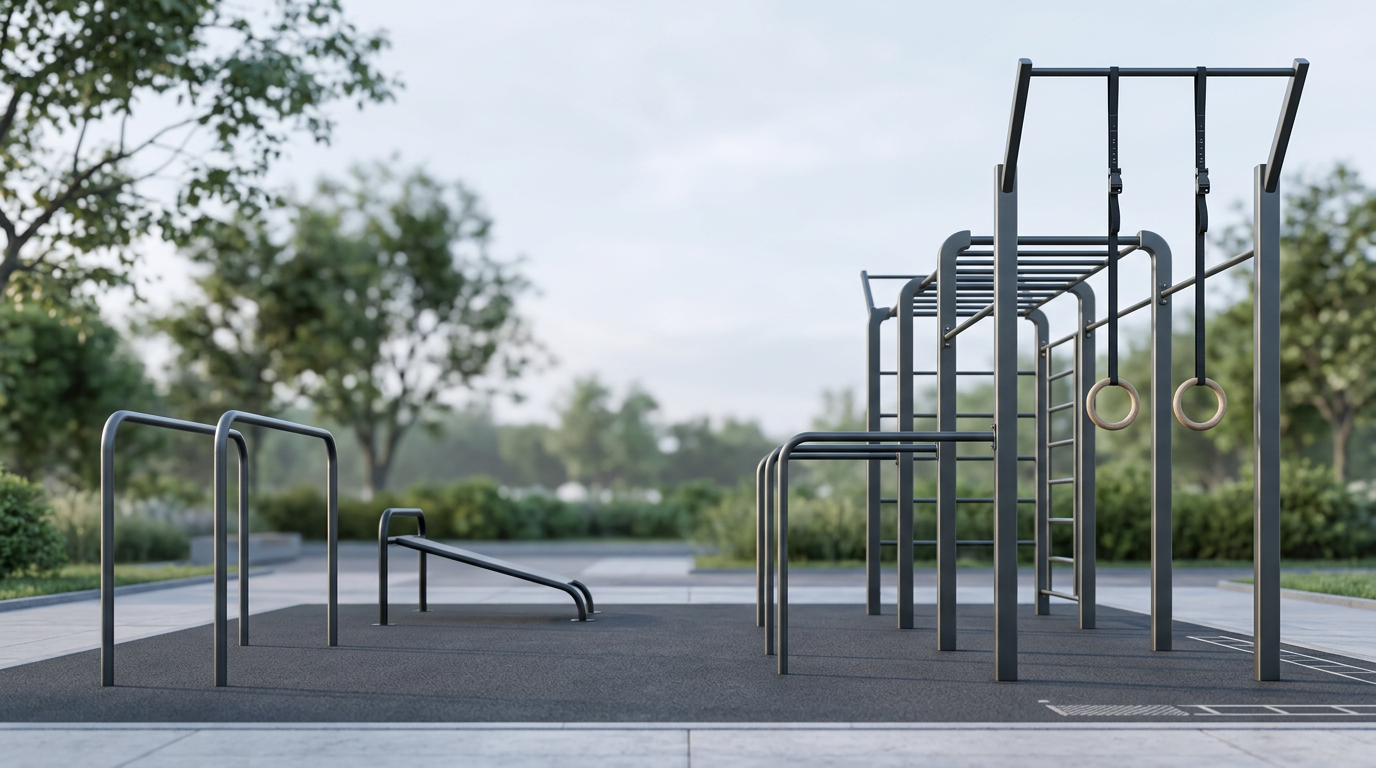
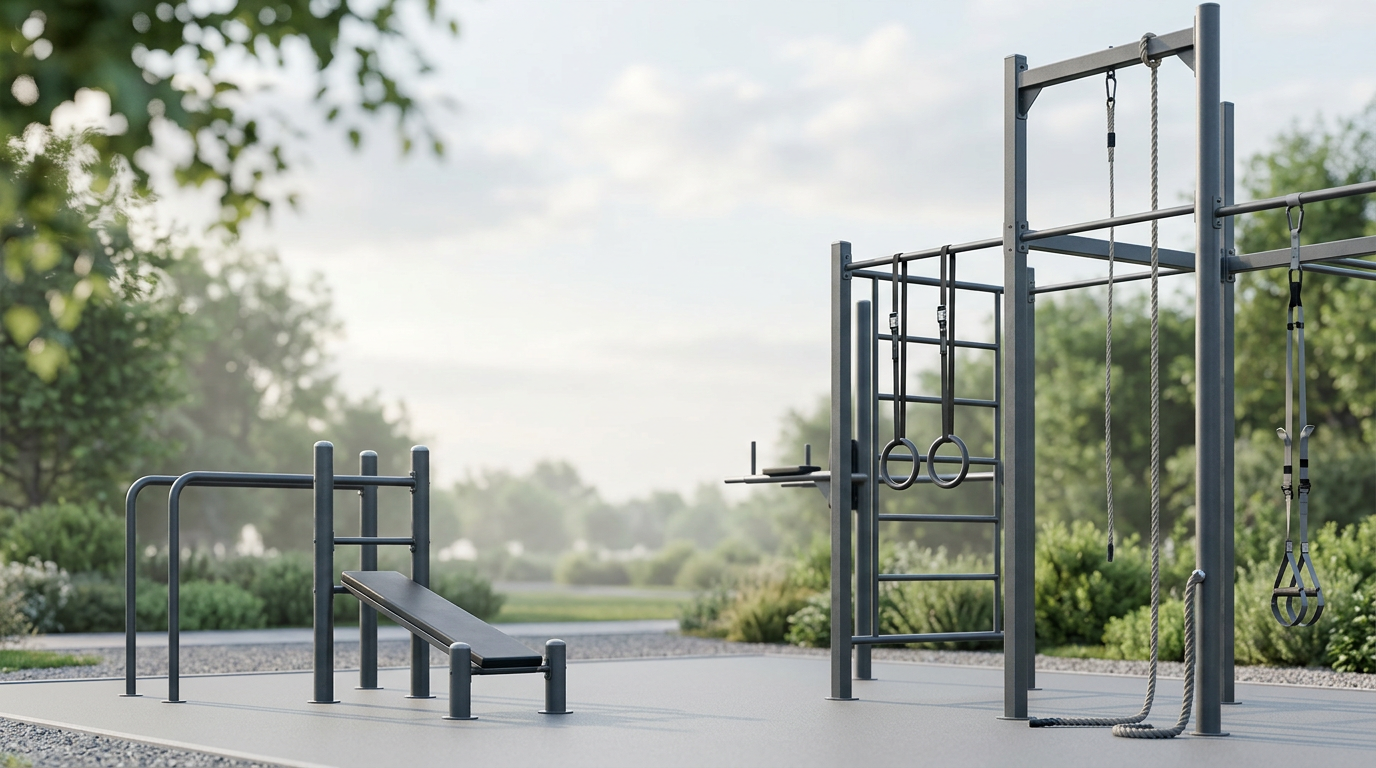
feat(crm-web): designer hero art from equipment brief + tuned placement
Regenerate login-street-workout-bg: calm center for UI, corners for rigs (rings on straps, battle rope, climbing rope, TRX-style, dip cluster, Swedish wall).

SCSS: scale 0.9, optical anchor 50%/46%, center radial veil for glass card legibility, softer edge washes.
Made-with: Cursor

diff --git a/crm-web/src/app/features/auth/pages/login-page/login-page.component.scss b/crm-web/src/app/features/auth/pages/login-page/login-page.component.scss
@@ -32,16 +32,19 @@
   pointer-events: none;
 }
 
-/* Фон чуть «дальше от камеры»: scale < 1 + центр чуть выше — больше воздуха вокруг площадки. */
+/*
+ * Hero: спокойный центр под стеклянную карточку, оборудование по краям (низ слева / справа).
+ * Масштаб и вуаль согласованы с макетом: не «в лоб» в симулятор, читаемость формы входа.
+ */
 .loginBackdrop::before {
   content: '';
   position: absolute;
   inset: 0;
-  background: url('/branding/login-street-workout-bg.png') no-repeat 50% 42% / cover;
-  opacity: 0.37;
-  filter: saturate(1.08) contrast(1.04) brightness(1.03);
-  transform: scale(0.82);
-  transform-origin: 50% 44%;
+  background: url('/branding/login-street-workout-bg.png') no-repeat 50% 46% / cover;
+  opacity: 0.39;
+  filter: saturate(1.06) contrast(1.03) brightness(1.02);
+  transform: scale(0.9);
+  transform-origin: 50% 46%;
 }
 
 .loginBackdrop::after {
@@ -49,10 +52,10 @@
   position: absolute;
   inset: 0;
   background:
-    radial-gradient(ellipse 95% 85% at 42% 38%, color-mix(in srgb, #fff 8%, transparent) 0%, transparent 55%),
-    radial-gradient(ellipse 100% 90% at 50% 40%, transparent 0%, color-mix(in srgb, var(--bg-base) 42%, transparent) 68%),
-    radial-gradient(ellipse 120% 80% at 0% 0%, color-mix(in srgb, var(--accent) 14%, transparent) 0%, transparent 55%),
-    radial-gradient(ellipse 90% 70% at 100% 25%, color-mix(in srgb, var(--success) 22%, transparent) 0%, transparent 48%);
+    radial-gradient(ellipse 52% 68% at 50% 40%, color-mix(in srgb, #fff 10%, transparent) 0%, transparent 58%),
+    radial-gradient(ellipse 100% 92% at 50% 44%, transparent 0%, color-mix(in srgb, var(--bg-base) 36%, transparent) 70%),
+    radial-gradient(ellipse 120% 80% at 0% 0%, color-mix(in srgb, var(--accent) 12%, transparent) 0%, transparent 55%),
+    radial-gradient(ellipse 90% 70% at 100% 28%, color-mix(in srgb, var(--success) 18%, transparent) 0%, transparent 50%);
   pointer-events: none;
 }
 
